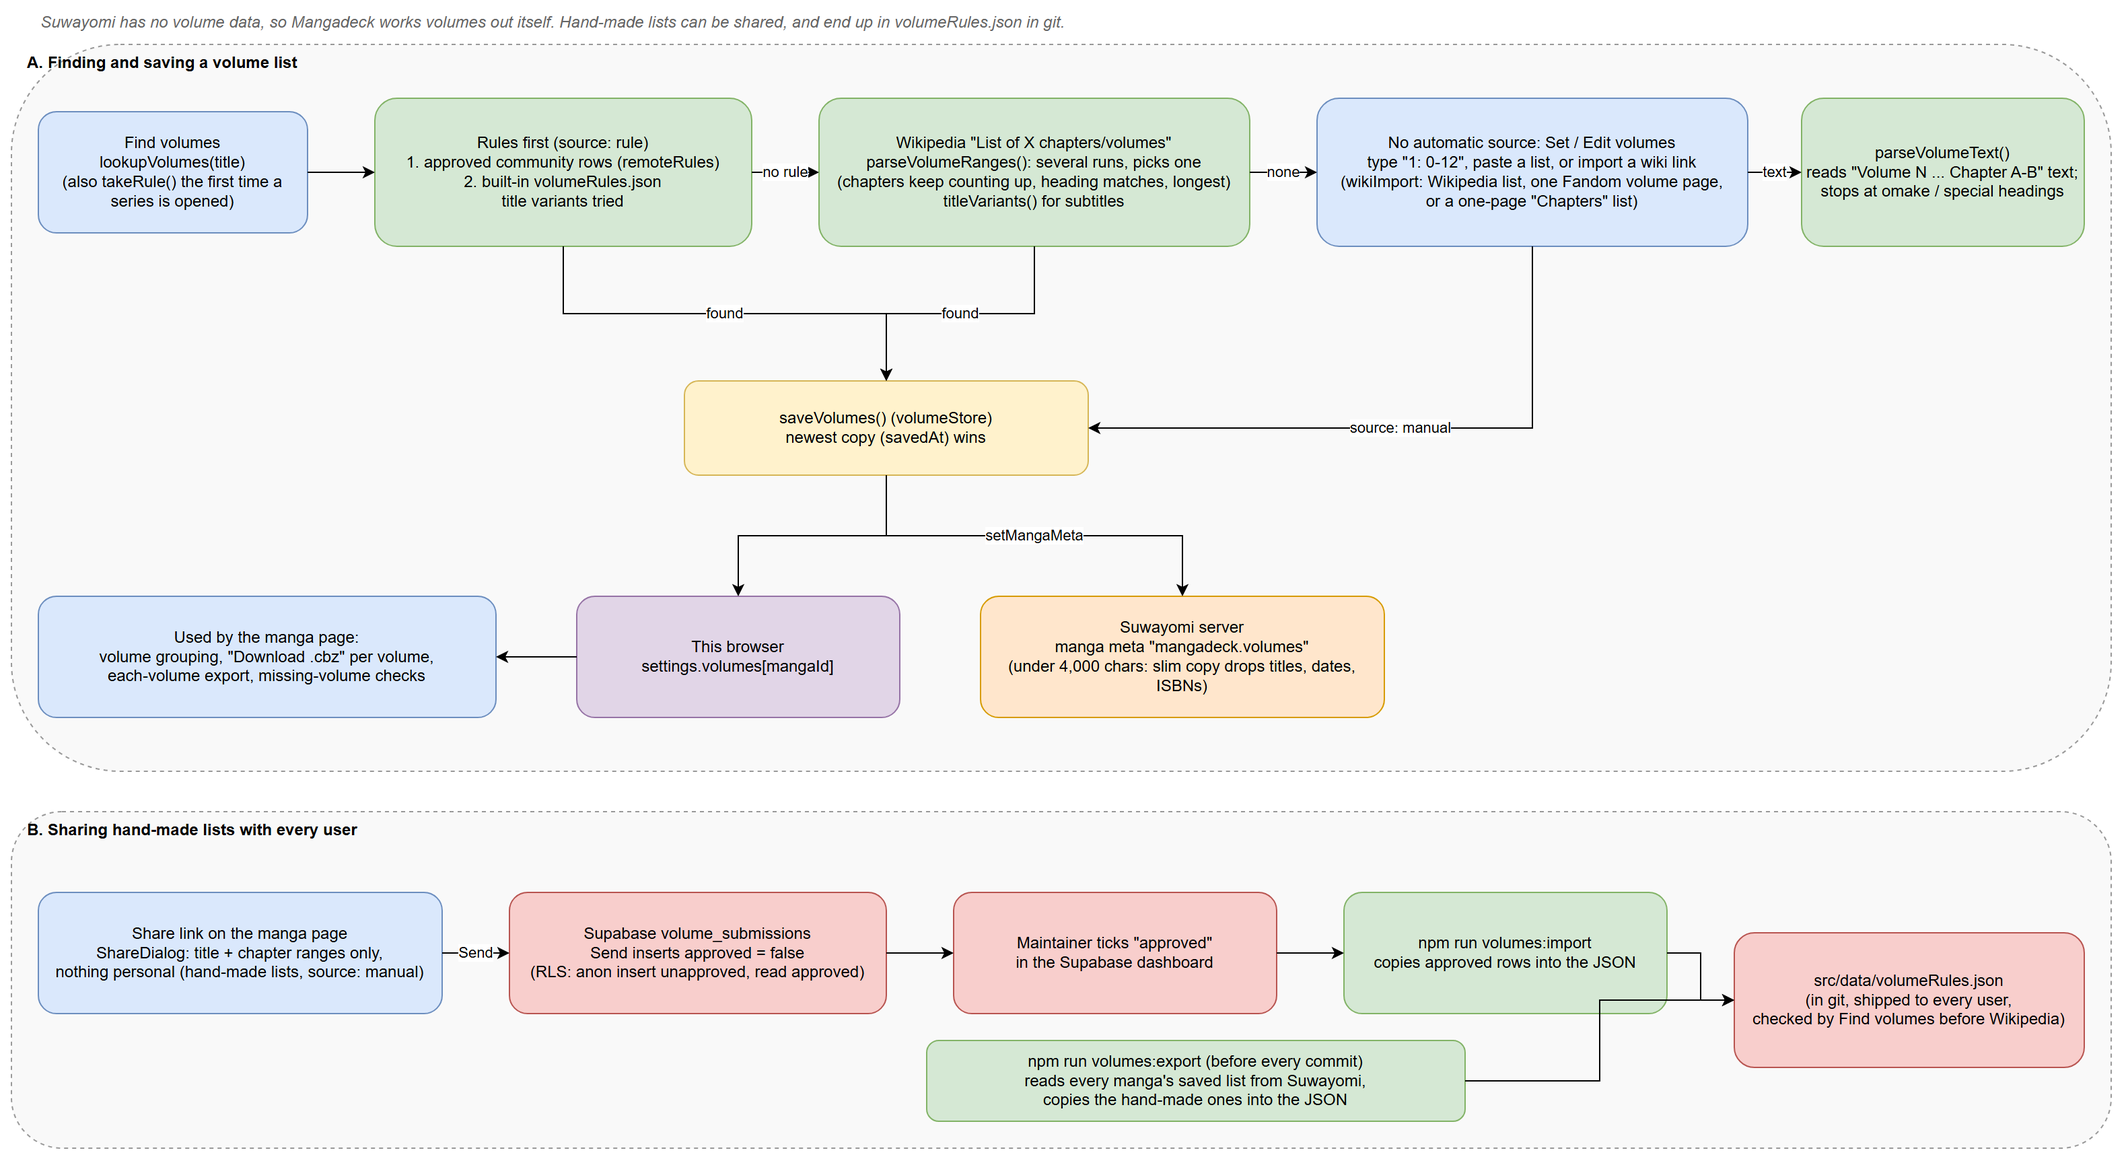
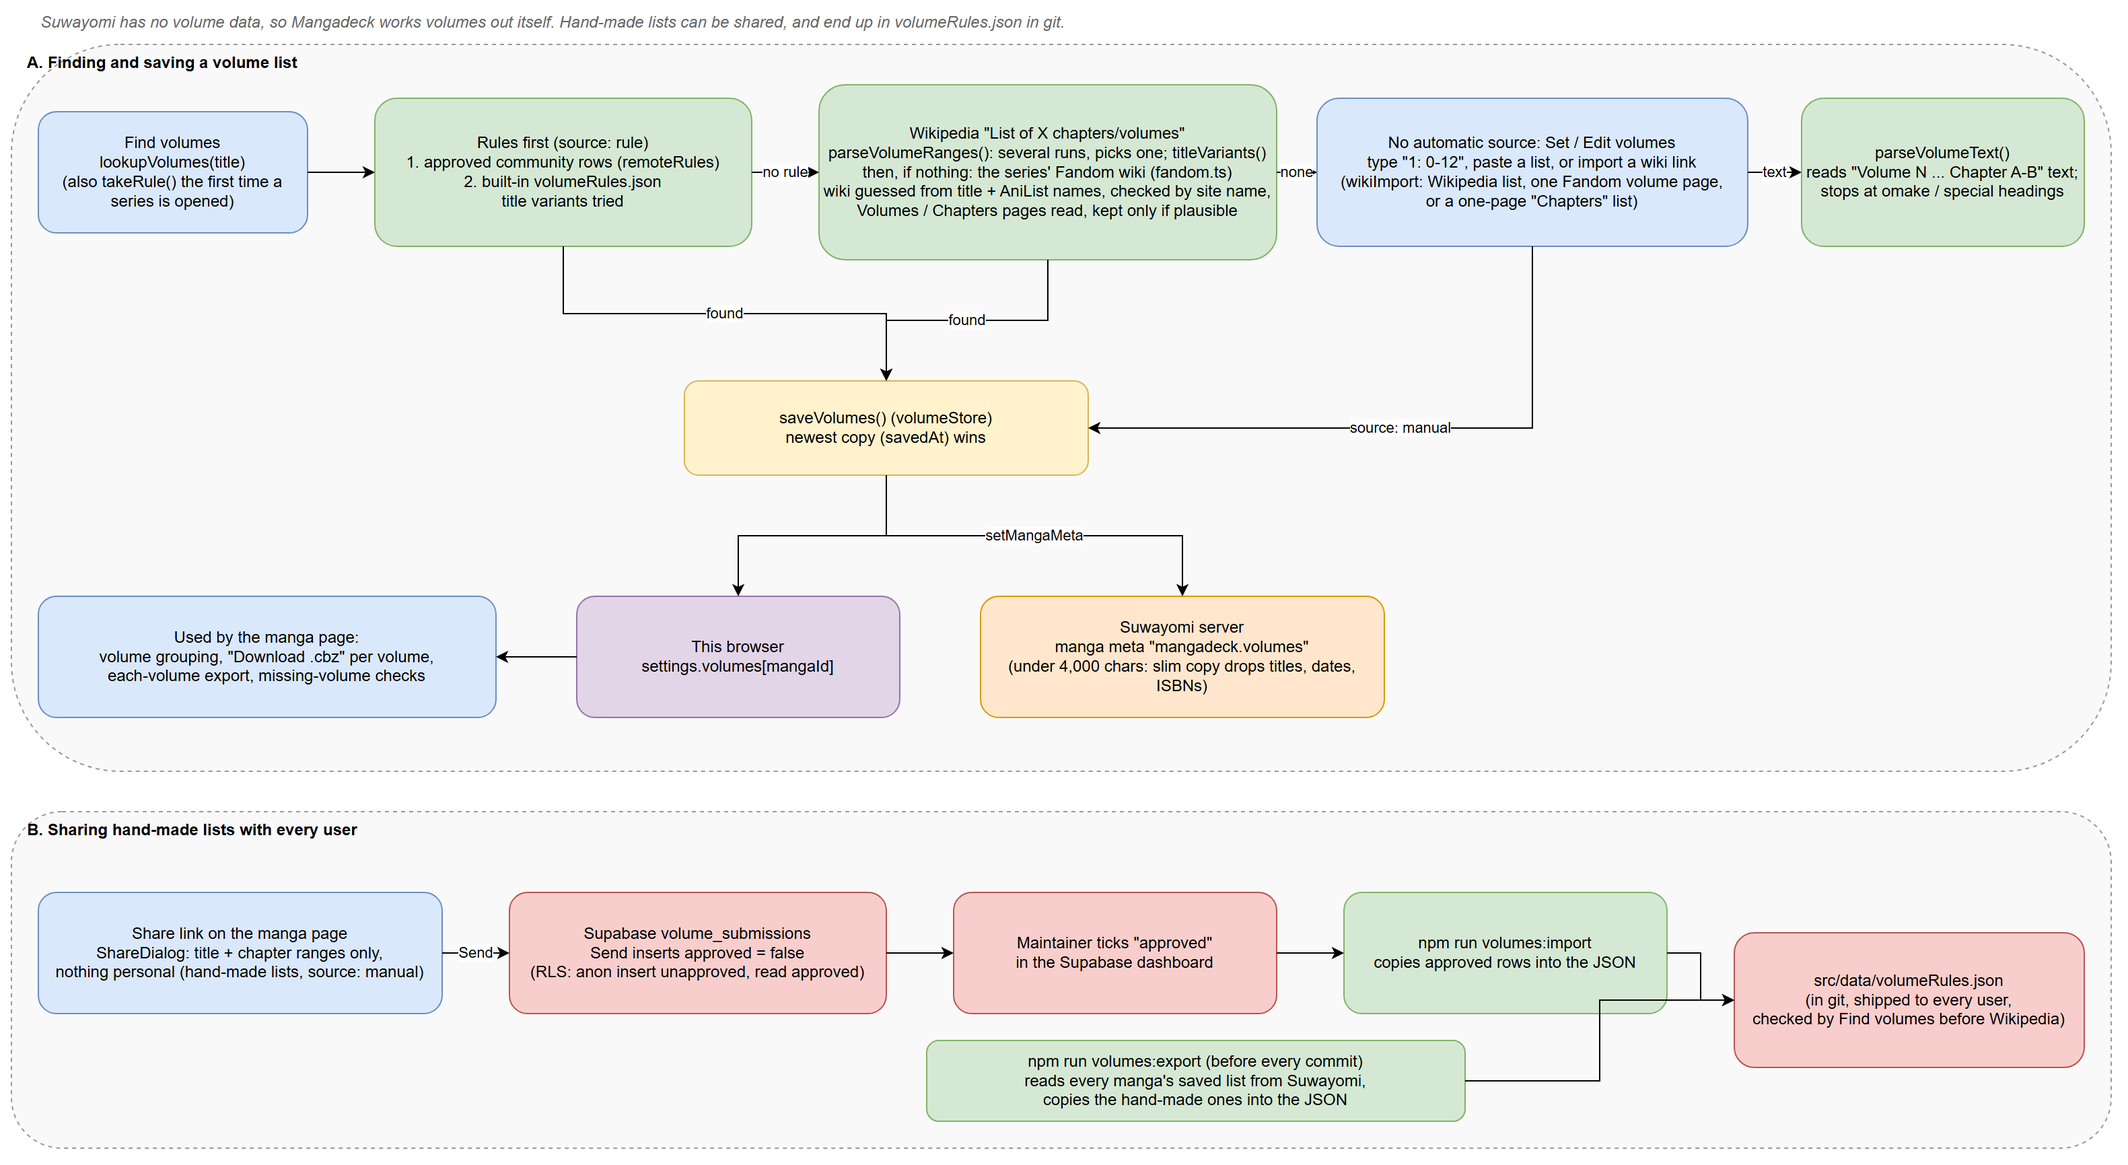
Find volumes on the series' Fandom wiki when Wikipedia has nothing

Changed region(s): [[0.3719, 0.0624, 0.6199, 0.2808]]

diff --git a/src/lib/fandom.ts b/src/lib/fandom.ts
@@ -1,0 +1,148 @@
+import { normTitle } from './recommend';
+import { importVolumesFromWiki } from './wikiImport';
+import { PARSER_VERSION, lookupVolumes, titleVariants, type VolumeInfo, type VolumeRange } from './volumes';
+
+/**
+ * Volumes from a series' Fandom wiki, for series Wikipedia has no list for. Fandom has one wiki per series at
+ * <name>.fandom.com; its cross-wiki search is blocked for browsers, so the address is guessed from the title (and from
+ * the names AniList knows the series by), checked against the wiki's own name, and the usual list pages are read with
+ * the same reader as "import from a wiki link". Anything not plausible is dropped and the user can still paste a link.
+ */
+
+const ANILIST = 'https://graphql.anilist.co';
+const MAX_SLUGS = 14;
+/** Page names tried when the wiki's own search does not point at one. */
+const LIST_PAGES = ['Volumes', 'Chapters', 'Chapters and Volumes', 'Volumes and Chapters', 'Chapter List', 'List of Chapters', 'Volume List', 'List of Volumes', 'Manga Volumes', 'Manga'];
+const MAX_PAGES = 10;
+
+/** Wiki subdomains a title could live at ("Omniscient Reader's Viewpoint" gives omniscient-readers-viewpoint). */
+export function wikiSlugs(names: string[]): string[] {
+  const out: string[] = [];
+  for (const n of names) {
+    const base = n
+      .toLowerCase()
+      .replace(/['’]/g, '')
+      .replace(/&/g, ' and ')
+      .replace(/[^a-z0-9]+/g, '-')
+      .replace(/^-+|-+$/g, '');
+    if (base.length < 3) continue;
+    for (const f of [base, base.replace(/^the-/, ''), base.replace(/-(manga|manhwa|manhua|webtoon)$/, '')]) {
+      out.push(f, f.replace(/-/g, ''));
+    }
+  }
+  return [...new Set(out.filter((s) => s.length >= 3))].slice(0, MAX_SLUGS);
+}
+
+/** A volume list worth trusting: at least two volumes, in order, chapter ranges that do not run backwards or overlap. */
+export function plausibleRanges(ranges: VolumeRange[]): boolean {
+  if (ranges.length < 2 || ranges.length > 400) return false;
+  const s = [...ranges].sort((a, b) => a.volume - b.volume);
+  for (let i = 0; i < s.length; i++) {
+    if (s[i].first > s[i].last) return false;
+    if (i === 0) continue;
+    if (s[i].volume === s[i - 1].volume) return false;
+    if (s[i].first <= s[i - 1].first || s[i].first < s[i - 1].last) return false;
+  }
+  return true;
+}
+
+const timeout = () => AbortSignal.timeout(7000);
+
+/** Other names AniList has for the series, only when its first matching entry really is this title. */
+export async function aniListNames(title: string): Promise<string[]> {
+  try {
+    const res = await fetch(ANILIST, {
+      method: 'POST',
+      headers: { 'Content-Type': 'application/json' },
+      signal: timeout(),
+      body: JSON.stringify({
+        query: 'query($s:String){Page(perPage:3){media(search:$s,type:MANGA){title{romaji english} synonyms}}}',
+        variables: { s: title },
+      }),
+    });
+    if (!res.ok) return [];
+    const media = ((await res.json())?.data?.Page?.media ?? []) as { title: { romaji?: string; english?: string }; synonyms?: string[] }[];
+    const want = normTitle(title);
+    for (const m of media) {
+      const names = [m.title.english, m.title.romaji, ...(m.synonyms ?? [])].filter((x): x is string => !!x && /^[\x20-\x7e’‘]+$/.test(x) && x.length >= 3);
+      if (names.some((n) => normTitle(n) === want)) return [...new Set(names)].slice(0, 6);
+    }
+  } catch {
+    /* AniList down or blocked: the title alone has to do */
+  }
+  return [];
+}
+
+/** Is <sub>.fandom.com a wiki about one of these names? Compares the wiki's own name. */
+async function isWikiFor(sub: string, names: string[]): Promise<boolean> {
+  try {
+    const res = await fetch(`https://${sub}.fandom.com/api.php?action=query&meta=siteinfo&siprop=general&format=json&origin=*`, { signal: timeout() });
+    if (!res.ok) return false;
+    const site = normTitle(String((await res.json())?.query?.general?.sitename ?? ''));
+    if (site.length < 4) return false;
+    return names.some((n) => {
+      const x = normTitle(n);
+      return x.length >= 4 && (site.includes(x) || x.includes(site.replace(/wiki$/, '')));
+    });
+  } catch {
+    return false;
+  }
+}
+
+async function findWiki(slugs: string[], names: string[]): Promise<string | null> {
+  const ok = await Promise.all(slugs.map((s) => isWikiFor(s, names)));
+  return slugs.find((_, i) => ok[i]) ?? null;
+}
+
+/** Page titles on the wiki that look like a volume or chapter list: the wiki's own search first, then the usual names. */
+async function listPages(sub: string): Promise<string[]> {
+  const found: string[] = [];
+  try {
+    const res = await fetch(`https://${sub}.fandom.com/api.php?action=query&list=search&srsearch=${encodeURIComponent('volumes chapters list')}&srlimit=8&format=json&origin=*`, { signal: timeout() });
+    if (res.ok) for (const h of ((await res.json())?.query?.search ?? []) as { title: string }[]) if (/volume|chapter/i.test(h.title)) found.push(h.title);
+  } catch {
+    /* search is a bonus */
+  }
+  const lower = new Set(found.map((t) => t.toLowerCase()));
+  const guessed = LIST_PAGES.filter((p) => !lower.has(p.toLowerCase()));
+  // List pages from search first, then a single "Volume N" page (reading it follows the other volumes), then the usual names.
+  const lists = found.filter((t) => !/\bvol(?:ume)?\.?\s*\d+\s*$/i.test(t));
+  const single = found.filter((t) => /\bvol(?:ume)?\.?\s*\d+\s*$/i.test(t)).slice(0, 1);
+  return [...new Set([...lists, ...single, ...guessed])].slice(0, MAX_PAGES);
+}
+
+/** Look the series up on its Fandom wiki. Null when no wiki or no usable list is found. */
+export async function lookupFandom(title: string): Promise<VolumeInfo | null> {
+  const names = titleVariants(title);
+  const tried = wikiSlugs(names);
+  let sub = await findWiki(tried, names);
+  if (!sub) {
+    const extra = await aniListNames(title);
+    if (extra.length) {
+      const all = [...names, ...extra.flatMap((n) => titleVariants(n))];
+      const more = wikiSlugs(all).filter((s) => !tried.includes(s));
+      sub = await findWiki(more, all);
+    }
+  }
+  if (!sub) return null;
+  for (const page of await listPages(sub)) {
+    try {
+      const { ranges } = await importVolumesFromWiki(`https://${sub}.fandom.com/wiki/${encodeURIComponent(page.replace(/ /g, '_'))}`);
+      if (plausibleRanges(ranges)) return { source: 'fandom', v: PARSER_VERSION, page: `${sub}: ${page}`, ranges };
+    } catch {
+      /* that page has no usable list: try the next */
+    }
+  }
+  return null;
+}
+
+/** Wikipedia (and the built-in rules) first, then the series' Fandom wiki. */
+export async function lookupVolumesEverywhere(title: string, opts: { skipRules?: boolean } = {}): Promise<VolumeInfo | null> {
+  const found = await lookupVolumes(title, opts);
+  if (found) return found;
+  try {
+    return await lookupFandom(title);
+  } catch {
+    return null;
+  }
+}

diff --git a/src/pages/MangaPage.tsx b/src/pages/MangaPage.tsx
@@ -7,8 +7,9 @@ import { useImage } from '../lib/useImage';
 import { ErrorBox, Spinner, errorToast, toast } from '../components/ui';
 import { chapterLabel, parseDescription, timeAgo, titleCase } from '../lib/format';
 import { listGroups, visibleChapters } from '../lib/groups';
-import { PARSER_VERSION, keepExtras, lookupVolumes, mergeNewVolumes, sameRanges, seriesChapters, summarizeVolumes, volumeChapters, volumeColor, volumeOf, type VolumeRange } from '../lib/volumes';
+import { PARSER_VERSION, keepExtras, mergeNewVolumes, sameRanges, seriesChapters, summarizeVolumes, volumeChapters, volumeColor, volumeOf, type VolumeRange } from '../lib/volumes';
 import VolumeDialog from '../components/VolumeDialog';
+import { lookupVolumesEverywhere } from '../lib/fandom';
 import ShareDialog from '../components/ShareDialog';
 import MergeDialog from '../components/MergeDialog';
 import LocalFiles from '../components/LocalFiles';
@@ -173,11 +174,11 @@ export default function MangaPage() {
   }
 
   const findVolumes = useMutation({
-    mutationFn: () => lookupVolumes(manga.data!.title),
+    mutationFn: () => lookupVolumesEverywhere(manga.data!.title),
     onSuccess: (info) => {
       if (info) {
         saveVolumes(id, info);
-        toast(`Found ${info.ranges.length} volumes ${info.source === 'rule' ? 'in the built-in list' : 'on Wikipedia'}`);
+        toast(`Found ${info.ranges.length} volumes ${info.source === 'rule' ? 'in the built-in list' : info.source === 'fandom' ? 'on a Fandom wiki' : 'on Wikipedia'}`);
       } else toast('No chapter-by-volume list found for this title. Use “Set volumes” to enter them by hand.', 'error');
     },
     onError: errorToast,
@@ -185,11 +186,11 @@ export default function MangaPage() {
   // Look again for volumes released since the saved list. A list read from Wikipedia is simply replaced; one from the
   // built-in rules or typed by hand only gets the newer volumes added, so nothing you corrected is lost.
   const checkVolumes = useMutation({
-    mutationFn: () => lookupVolumes(manga.data!.title, { skipRules: true }),
+    mutationFn: () => lookupVolumesEverywhere(manga.data!.title, { skipRules: true }),
     onSuccess: (found) => {
       const cur = settings.volumes[String(id)];
       if (!found) return void toast('No volume list found online. Use “Edit volumes” to add the new volume by hand.', 'error');
-      if (!cur || cur.source === 'wikipedia') {
+      if (!cur || cur.source === 'wikipedia' || cur.source === 'fandom') {
         saveVolumes(id, found);
         return void toast(`Updated: ${found.ranges.length} volumes`);
       }
@@ -317,7 +318,7 @@ export default function MangaPage() {
   const redoneVolumes = useRef(false);
   useEffect(() => {
     // Volumes typed in by hand are never looked up again.
-    if (!volumeInfo || volumeInfo.source !== 'wikipedia' || (volumeInfo.v ?? 1) >= PARSER_VERSION || redoneVolumes.current || !manga.data) return;
+    if (!volumeInfo || (volumeInfo.source !== 'wikipedia' && volumeInfo.source !== 'fandom') || (volumeInfo.v ?? 1) >= PARSER_VERSION || redoneVolumes.current || !manga.data) return;
     redoneVolumes.current = true;
     findVolumes.mutate();
     // eslint-disable-next-line react-hooks/exhaustive-deps
@@ -329,7 +330,7 @@ export default function MangaPage() {
     const remote = volumeInfoFromMeta(manga.data.meta);
     const action = chooseSync(volumeInfo, remote);
     // A shortened Wikipedia copy is marked old (v: 1), so the page quietly reads the full details again, once.
-    if (action === 'pull' && remote) setVolumeInfo(id, remote.slim && remote.source === 'wikipedia' ? { ...remote, v: 1 } : remote);
+    if (action === 'pull' && remote) setVolumeInfo(id, remote.slim && (remote.source === 'wikipedia' || remote.source === 'fandom') ? { ...remote, v: 1 } : remote);
     else if (action === 'push' && volumeInfo) pushVolumeMeta(id, volumeInfo);
     else if (action === 'none' && !volumeInfo && !remote) {
       // Nothing saved anywhere: a built-in rule for this series (shared with every user) fills it in, once.
@@ -659,7 +660,9 @@ export default function MangaPage() {
                     ? ' · entered by hand'
                     : volumeInfo.source === 'rule'
                       ? ` · from the built-in list (${volumeInfo.page})`
-                      : ` · from Wikipedia (${volumeInfo.page})`}
+                      : volumeInfo.source === 'fandom'
+                        ? ` · from a Fandom wiki (${volumeInfo.page})`
+                        : ` · from Wikipedia (${volumeInfo.page})`}
               </span>
               <span className="row gap">
                 {volumeInfo?.source === 'manual' && (

diff --git a/src/lib/fandom.test.ts b/src/lib/fandom.test.ts
@@ -1,0 +1,94 @@
+import { afterEach, describe, expect, it, vi } from 'vitest';
+import { lookupFandom, lookupVolumesEverywhere, plausibleRanges, wikiSlugs } from './fandom';
+
+describe('wikiSlugs', () => {
+  it('turns a title into wiki addresses', () => {
+    expect(wikiSlugs(["Omniscient Reader's Viewpoint"])).toContain('omniscient-readers-viewpoint');
+    expect(wikiSlugs(['Mob Psycho 100'])).toEqual(['mob-psycho-100', 'mobpsycho100']);
+    expect(wikiSlugs(['The Boxer (manhwa)'])).toContain('boxer-manhwa');
+  });
+  it('drops names that are too short', () => {
+    expect(wikiSlugs(['X'])).toEqual([]);
+  });
+});
+
+describe('plausibleRanges', () => {
+  const r = (volume: number, first: number, last: number) => ({ volume, first, last });
+  it('accepts an ordered list', () => {
+    expect(plausibleRanges([r(1, 0, 9), r(2, 10, 18), r(3, 19, 28)])).toBe(true);
+  });
+  it('accepts a chapter shared between two volumes', () => {
+    expect(plausibleRanges([r(1, 1, 9), r(2, 9, 17)])).toBe(true);
+  });
+  it('rejects a single volume, overlaps, backwards ranges and duplicates', () => {
+    expect(plausibleRanges([r(1, 1, 9)])).toBe(false);
+    expect(plausibleRanges([r(1, 1, 20), r(2, 10, 30)])).toBe(false);
+    expect(plausibleRanges([r(1, 9, 1), r(2, 10, 18)])).toBe(false);
+    expect(plausibleRanges([r(1, 1, 9), r(1, 10, 18)])).toBe(false);
+  });
+});
+
+const PAGE = [
+  '== Volumes ==',
+  '=== Volume 1 ===',
+  '| chapters =',
+  '* [[Chapter 1]]',
+  '* [[Chapter 2]]',
+  '* [[Chapter 9]]',
+  '=== Volume 2 ===',
+  '| chapters =',
+  '* [[Chapter 10]]',
+  '* [[Chapter 18]]',
+  '=== Volume 3 ===',
+  '| chapters =',
+  '* [[Chapter 19]]',
+  '* [[Chapter 28]]',
+].join('\n');
+
+/** A pretend internet: one wiki called "Test Series Wiki" with a Volumes page. */
+function fakeFetch(opts: { wikiName?: string; page?: string } = {}) {
+  const name = opts.wikiName ?? 'Test Series Wiki';
+  return vi.fn(async (input: RequestInfo | URL) => {
+    const url = String(input);
+    const json = (body: unknown) => ({ ok: true, json: async () => body }) as Response;
+    if (url.startsWith('https://graphql.anilist.co')) return json({ data: { Page: { media: [] } } });
+    if (!url.startsWith('https://test-series.fandom.com/')) throw new Error('no such wiki');
+    if (url.includes('meta=siteinfo')) return json({ query: { general: { sitename: name } } });
+    if (url.includes('list=search')) return json({ query: { search: [{ title: 'Volumes' }] } });
+    if (url.includes('action=parse') && url.includes('page=Volumes')) return json({ parse: { title: 'Volumes', wikitext: { '*': opts.page ?? PAGE } } });
+    return json({ error: { code: 'missingtitle' } });
+  });
+}
+
+afterEach(() => vi.unstubAllGlobals());
+
+describe('lookupFandom', () => {
+  it('finds the wiki, reads its Volumes page and labels the result', async () => {
+    vi.stubGlobal('fetch', fakeFetch());
+    const info = await lookupFandom('Test Series');
+    expect(info?.source).toBe('fandom');
+    expect(info?.page).toBe('test-series: Volumes');
+    expect(info?.ranges.map((x) => `${x.volume}:${x.first}-${x.last}`)).toEqual(['1:1-9', '2:10-18', '3:19-28']);
+  });
+  it('ignores a wiki that is about something else', async () => {
+    vi.stubGlobal('fetch', fakeFetch({ wikiName: 'Completely Different Wiki' }));
+    expect(await lookupFandom('Test Series')).toBeNull();
+  });
+  it('gives up quietly when the page has no volumes', async () => {
+    vi.stubGlobal('fetch', fakeFetch({ page: 'Just some text about the series.' }));
+    expect(await lookupFandom('Test Series')).toBeNull();
+  });
+  it('is only used after Wikipedia finds nothing', async () => {
+    const f = fakeFetch();
+    vi.stubGlobal(
+      'fetch',
+      vi.fn(async (input: RequestInfo | URL) => {
+        const url = String(input);
+        if (url.includes('wikipedia.org')) return { ok: true, json: async () => ({ query: { search: [] }, error: { code: 'missingtitle' } }) } as Response;
+        return f(input);
+      }),
+    );
+    const info = await lookupVolumesEverywhere('Test Series');
+    expect(info?.source).toBe('fandom');
+  });
+});

diff --git a/src/components/VolumeDialog.tsx b/src/components/VolumeDialog.tsx
@@ -16,7 +16,7 @@ export default function VolumeDialog({
   title: string;
   initial: VolumeRange[] | undefined;
   /** Where the volumes in the box came from, when there are some. */
-  current?: { source: 'wikipedia' | 'manual' | 'rule'; page: string };
+  current?: { source: 'wikipedia' | 'fandom' | 'manual' | 'rule'; page: string };
   onSave: (ranges: VolumeRange[]) => void;
   onClose: () => void;
 }) {
@@ -57,7 +57,9 @@ export default function VolumeDialog({
               ? 'entered by hand'
               : current.source === 'rule'
                 ? `from the built-in list (${current.page})`
-                : `from Wikipedia (${current.page})`}
+                : current.source === 'fandom'
+                  ? `from a Fandom wiki (${current.page})`
+                  : `from Wikipedia (${current.page})`}
             . Change a line to correct it; the dates and chapter titles of volumes you keep stay.
           </p>
         )}

diff --git a/src/lib/volumes.ts b/src/lib/volumes.ts
@@ -19,7 +19,7 @@ export const PARSER_VERSION = 3;
 
 /** Where a volume map came from, saved per manga. */
 export interface VolumeInfo {
-  source: 'wikipedia' | 'manual' | 'rule';
+  source: 'wikipedia' | 'fandom' | 'manual' | 'rule';
   /** When it was saved (ms). The newest copy wins when the browser and the server disagree. */
   savedAt?: number;
   /** The copy kept on the server had to leave out chapter titles (and maybe dates) to fit: refresh to get them back. */

diff --git a/CLAUDE.md b/CLAUDE.md
@@ -82,6 +82,15 @@ parts connect, update it; it is plain mxfile XML and can be edited in diagrams.n
   become rules, a known title gets its ranges replaced when they changed, an identical list adds the title as another name.
   Lists read from Wikipedia are left out (every app finds those itself). Only titles and chapter ranges are stored, nothing
   personal.
+  **Fandom as an automatic source** (`src/lib/fandom.ts`, `lookupVolumesEverywhere()` is what Find volumes / Check for new volumes call):
+  when Wikipedia has no list, `lookupFandom()` guesses the series' wiki (`<slug>.fandom.com`, `wikiSlugs()` from the title, its variants and
+  the names AniList has for it, `aniListNames()`), checks the wiki's own site name against the title (`isWikiFor()`, so `gto` is not taken for
+  any wiki), finds list pages (wiki search, then Volumes / Chapters / Chapters and Volumes / Volumes and Chapters / Chapter List / ...), and
+  reads each with `importVolumesFromWiki()` (tables, "Volume N" pages, or text). A result is kept only if `plausibleRanges()` (2+ volumes, in
+  order, no overlap). Saved with `source: 'fandom'`, handled like `'wikipedia'` (replaced on re-check, not exported by `volumes:export`).
+  Fandom's cross-wiki search (`www.fandom.com/api/v1/Search/CrossWiki`) answers 403, so the address has to be guessed. Known misses: wikis
+  whose volume page is a stub or gallery (Solo Leveling, Lookism), wikis with only chapter lists (The Boxer), wikis with no search index (GTO).
+  Those still need Edit volumes / the wiki-link import.
   **Tried and rejected** (do not redo): MangaDex (browsers are bot-challenged; through a Vite/nginx relay it works but
   licensed series have few volumes filled in; Solo Leveling had only vol 1), Kitsu (`volumeNumber` is a placeholder:
   every Solo Leveling chapter is volume 1), AniList/MyAnimeList (volume counts only), Amazon/BookWalker (no chapter
